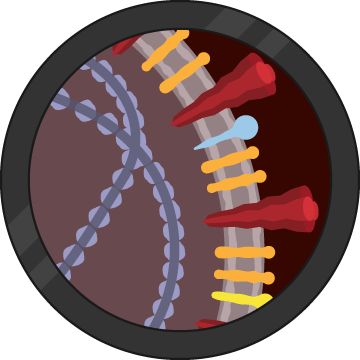
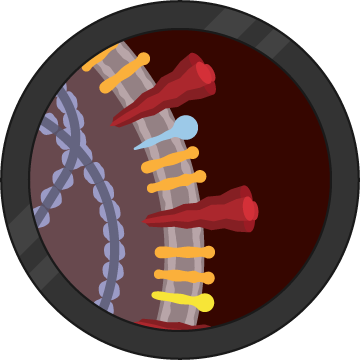
scene 1 shot 2 exit transition

diff --git a/js/main.js b/js/main.js
@@ -96,6 +96,7 @@ tweenScene1
     x: '-40%',
     y: '5%',
     delay: 1,
+    ease: Power2.easeInOut,
   })
   .to('.section-01 .virus-01', 1, {
     autoAlpha: 0,
@@ -143,7 +144,26 @@ tweenScene1
     x: '10%',
     y: '-10%',
     delay: 1,
-  });
+    ease: Power2.easeInOut,
+  })
+  .to('.section-01 .virus-zoomed', 1, {
+    autoAlpha: 0,
+    ease: Power1.easeOut,
+    delay: 1,
+  })
+  .to('.section-01 .virus-01', 1, {
+    autoAlpha: 1,
+    ease: Power1.easeIn,
+  })
+  .to(
+    ['.section-01 .virus-cross-section', '.section-01 .text-2'],
+    1,
+    {
+      autoAlpha: 0,
+      ease: Power1.easeOut,
+    },
+    '<'
+  );
 
 const scene01 = new ScrollMagic.Scene({
   triggerElement: '.scene-02-trigger',

diff --git a/css/scene-01.css b/css/scene-01.css
@@ -127,7 +127,7 @@
 .section-01 .virus-zoomed {
   opacity: 0;
   transform-origin: center;
-  transform: translate(-18%, 3%) scale(0.4);
+  transform: translate(-11.5%, 3%) scale(0.4);
   position: absolute;
   top: calc(45% - 200px);
   left: calc(50% - 180px);
